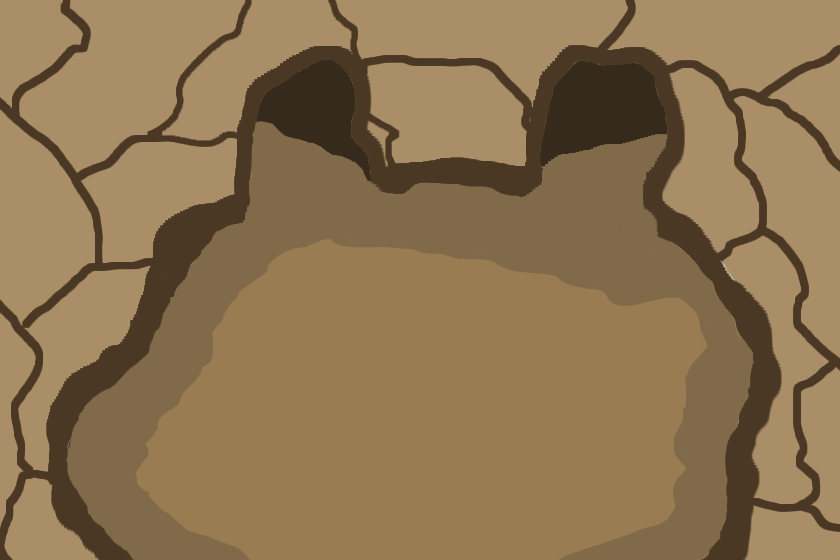
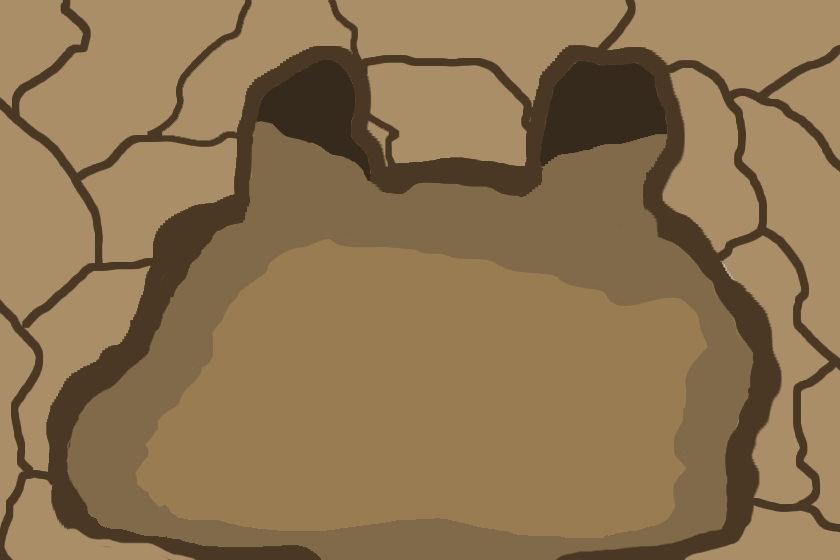
Door entrance, main room, return

Changed region(s): [[0.0929, 0.9107, 0.8976, 1.0]]

diff --git a/Project/background.py b/Project/background.py
@@ -20,6 +20,7 @@ cave = Cave()
 for i in range(8):
     cave.addRoomCave(i+1)
 currentroom = cave.root
+mainroom = cave.root
 
 #tambah pertanyaan ke tiap ruangan
 cave.addQuestion()
@@ -32,6 +33,7 @@ hover_exit = False
 
 # game variables
 play = False
+paused = False
 locked = currentroom.locked
 right = True
 question = False
@@ -41,6 +43,8 @@ door2 = False
 door3 = False
 change = False
 startpause = 0
+leftdoor = False
+rightdoor = False
 
 # menu images
 menu_bg = pygame.image.load("menubg.png").convert_alpha()
@@ -52,8 +56,14 @@ game_title = pygame.image.load("gametitle.png").convert_alpha()
 menu_potato = pygame.image.load("menupotato.png").convert_alpha()
 
 # game images
+main_room_double = pygame.image.load("main room double.png").convert_alpha()
+main_room_left = pygame.image.load("main room left.png").convert_alpha()
+main_room_right = pygame.image.load("main room right.png").convert_alpha()
 locked_bg = pygame.image.load("locked.png").convert_alpha()
 double_door = pygame.image.load("double door.png").convert_alpha()
+left_door = pygame.image.load("door left.png").convert_alpha()
+right_door = pygame.image.load("door right.png").convert_alpha()
+no_door = pygame.image.load("dead end.png").convert_alpha()
 potato_right = pygame.image.load("potato.png").convert_alpha()
 potato_left = pygame.image.load("potatoleft.png").convert_alpha()
 notification = pygame.image.load("notification.png").convert_alpha()
@@ -82,7 +92,21 @@ def draw_room():
     if locked:
         screen.blit(locked_bg, (0,0))
     else:
-        screen.blit(double_door, (0,0))
+        if currentroom == mainroom:
+            if rightdoor and leftdoor:
+                screen.blit(main_room_double, (0,0))
+            elif rightdoor and not leftdoor:
+                screen.blit(main_room_right, (0,0))
+            elif leftdoor and not rightdoor:
+                screen.blit(main_room_left, (0,0))
+        else:
+            if rightdoor and leftdoor:
+                screen.blit(double_door, (0,0))
+            elif rightdoor and not leftdoor:
+                screen.blit(right_door, (0,0))
+            elif leftdoor and not rightdoor:
+                screen.blit(left_door, (0,0))
+            else: screen.blit(no_door, (0,0))
 
 def draw_potato():
     if right: screen.blit(potato_right, (potato_x , potato_y))
@@ -132,6 +156,15 @@ while run:
 
     elif play:
         if not change:
+
+            # menentukan bentuk ruangan
+            if currentroom.left != None:
+                leftdoor = True
+            else: leftdoor = False
+            if currentroom.right != None:
+                rightdoor = True
+            else: rightdoor = False
+
             #gambar ruangan
             draw_room()
 
@@ -139,6 +172,17 @@ while run:
             draw_potato()
 
             move = pygame.key.get_pressed()
+            if potato_y >= 450 and currentroom != mainroom:
+                if move[pygame.K_DOWN]:
+                    if potato_x > 300 and potato_x < 500: potato_y+=5
+                if move[pygame.K_LEFT]:
+                    if potato_x > 200 and potato_x < 400 and potato_y > 500: potato_x+=5
+                    else: potato_x = potato_x
+                if move[pygame.K_RIGHT]:
+                    if potato_x < 400 and potato_x > 200 and potato_y > 500: potato_x-=5
+                    else : potato_x = potato_x
+                if move[pygame.K_UP]:
+                    if potato_x > 300 and potato_x < 500: potato_y-=5
             if potato_y > 300:
                 if move[pygame.K_LEFT]:
                     if potato_x > 100: potato_x-=5
@@ -209,7 +253,15 @@ while run:
             potato_x = 350
             potato_y = 450
             change = True
-            currentroom = currentroom.right
+            if currentroom.right != None:
+                currentroom = currentroom.right
+
+        # enable return
+        if currentroom != mainroom and potato_y > 560:
+            startpause= time.time()
+            potato_x = 350
+            potato_y = 200
+            change = True
     
     pygame.display.update()
 

diff --git a/Project/questions.py b/Project/questions.py
@@ -5,12 +5,15 @@ class NodeQuestion:
         self.answer = []
         self.question = question
         self.correct_answer = answer_correct
+        self.count = 2
         self.answer.append(answer_correct)
         self.answer.append(answer2)
         if answer3 != "":
             self.answer.append(answer3)
+            self.count+=1
         if answer4 != "":
             self.answer.append(answer4)
+            self.count+=1
         self.correct = False
         self.random_urutan_jawaban()
     
